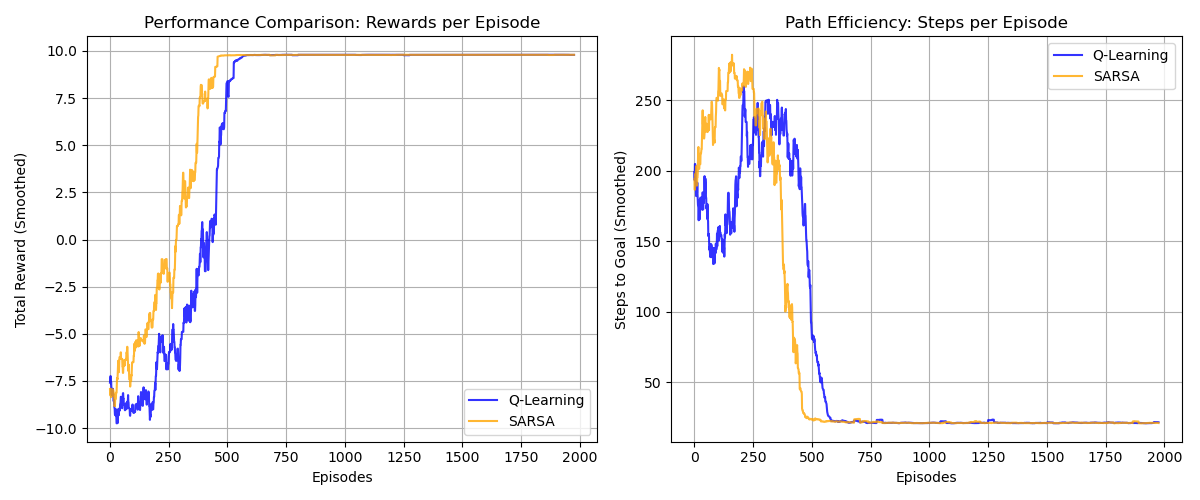
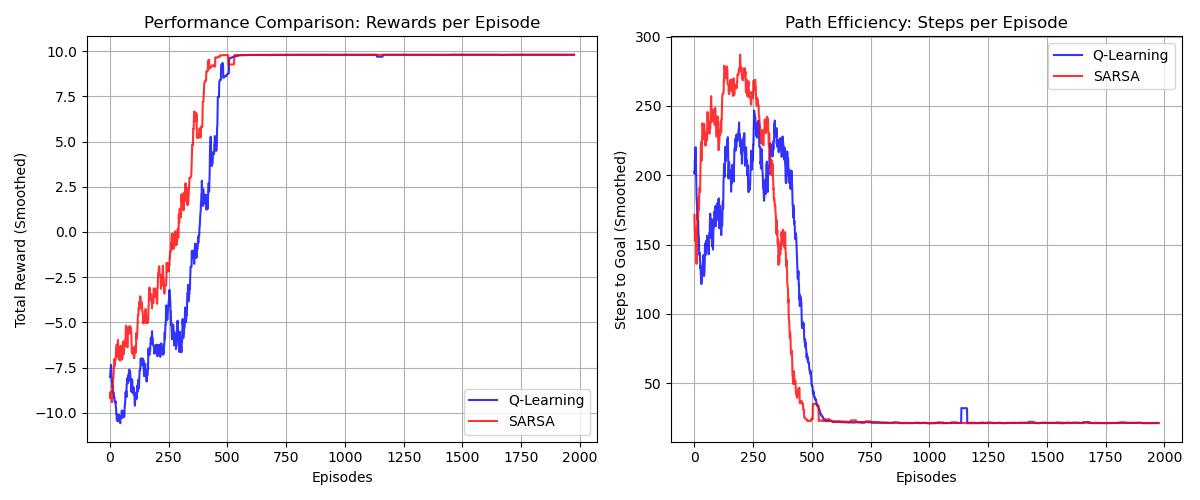
final commit

diff --git a/training.py b/training.py
@@ -6,6 +6,9 @@ from minigrid.core.grid import Grid
 from minigrid.core.world_object import Goal, Wall, Lava
 from minigrid.core.mission import MissionSpace
 import time
+import pygame
+import warnings
+warnings.filterwarnings("ignore", category=UserWarning, module="pygame.sysfont") # ignores warning
 
 # ==================
 # CUSTOM ENVIRONMENT
@@ -22,7 +25,7 @@ class Custom12x12Env(MiniGridEnv):
         
     @staticmethod
     def _gen_mission():
-        return "reach the goal"
+        return "REACH THE GOAL"
         
     def _gen_grid(self, width, height):
         self.grid = Grid(width, height)
@@ -256,6 +259,8 @@ if __name__ == "__main__":
     
     while not (terminated or truncated) and step_count < 300:
         demo_env_ql.render()
+        if step_count == 0:
+            pygame.display.set_caption("Q-Learning Agent (Off-Policy)")
         action = np.argmax(Q_ql[state[0], state[1], state[2]])
         obs, reward, terminated, truncated, info = demo_env_ql.step(action)
         state = get_state(demo_env_ql)
@@ -285,6 +290,8 @@ if __name__ == "__main__":
     
     while not (terminated or truncated) and step_count < 300:
         demo_env_sarsa.render()
+        if step_count == 0:
+            pygame.display.set_caption("SARSA Agent (On-Policy)")
         action = np.argmax(Q_sarsa[state[0], state[1], state[2]])
         obs, reward, terminated, truncated, info = demo_env_sarsa.step(action)
         state = get_state(demo_env_sarsa)
